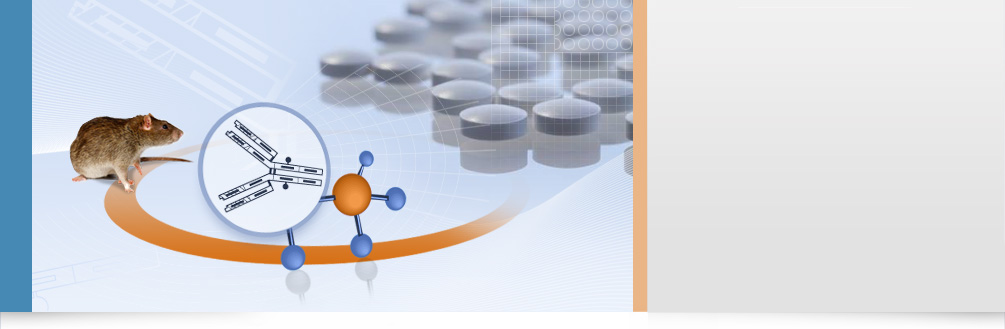
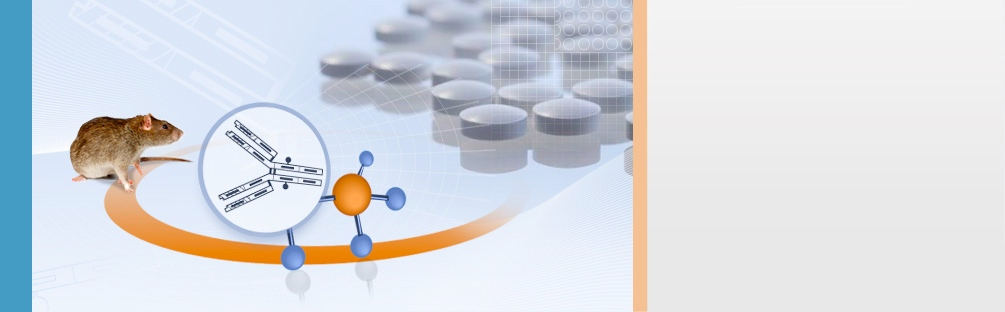
fixing background images css, links pages

diff --git a/app/assets/stylesheets/layout.css.sass b/app/assets/stylesheets/layout.css.sass
@@ -7,7 +7,10 @@ body
 
 #page
   width: 1000px
-  margin: 0px auto
+  margin: 0px auto 20px auto
+  -webkit-box-shadow: 0 10px 10px 2px rgba(0, 0, 0, 0.6), inset 0 -1px 0 rgba(0, 0, 0, 0.1)
+  -moz-box-shadow: 0 10px 10px 2px rgba(0, 0, 0, 0.6), inset 0 -1px 0 rgba(0, 0, 0, 0.1)
+  box-shadow: 0 10px 10px 2px rgba(0, 0, 0, 0.6), inset 0 -1px 0 rgba(0, 0, 0, 0.1)
 
 /* header
 
@@ -68,11 +71,11 @@ header#header .logo
       color: #333
       text-shadow: 1px 1px 1px white
   > ul > li > a:hover
-    color: black
-    text-shadow: 1px 1px 1px #ddd
-    background: rgba(70, 137, 181, 1)
+    color: white
+    text-shadow: 1px 1px 1px #333
     -moz-border-radius: 5px 5px 0 0
     border-radius: 5px 5px 0 0
+    background: rgba(70, 137, 181, 1)
   li.selected > a
     color: white
     text-shadow: 1px 1px 1px black
@@ -114,12 +117,15 @@ header#header .logo
   min-height: 22px
   background: #D66C0E
   border-bottom: 1px solid white
+  -webkit-box-shadow: 0 2px 3px rgba(0, 0, 0, 0.25), inset 0 -1px 0 rgba(0, 0, 0, 0.1)
+  -moz-box-shadow: 0 2px 3px rgba(0, 0, 0, 0.25), inset 0 -1px 0 rgba(0, 0, 0, 0.1)
+  box-shadow: 0 2px 3px rgba(0, 0, 0, 0.25), inset 0 -1px 0 rgba(0, 0, 0, 0.1)
 
 #body_content
   background: #F0F0F0
-  background-image: image-url("img-labo.jpg"), image-url("bas-degrade-int.jpg"), image-url("fd-img-labo.gif")
-  background-repeat: no-repeat,no-repeat,repeat-y
-  background-position: top left,bottom left,top left
+  background-image: image-url("img-labo.jpg"), image-url("fd-img-labo.gif")
+  background-repeat: no-repeat,repeat-y
+  background-position: top left,top left
   min-height: 284px
   padding-left: 264px
 

diff --git a/app/assets/stylesheets/home.css.sass b/app/assets/stylesheets/home.css.sass
@@ -1,18 +1,18 @@
 section.home
   background-image: image-url("fnd-home.jpg")
-  height: 329px
+  height: 311px
 
 #next_school
   width: 310px
-  margin-right: 20px
-  padding: 20px
+  margin: 0 auto
+  padding: 20px 40px
   text-shadow: 0px 1px 1px white
-  a
-    color: inherit
   .title, .theme, .school_when_where
     margin: 15px 0
   .title
     line-height: 20px
+    a
+      color: inherit
   .theme
     color: #D66C0E
     line-height: 20px
@@ -20,3 +20,8 @@ section.home
   .school_when_where
     color: #4689B5
     text-shadow: 1px 1px white
+  aside
+    width: 80%
+    .btn-large
+      margin-bottom: 10px
+      width: 100%

diff --git a/app/assets/stylesheets/schools.css.sass b/app/assets/stylesheets/schools.css.sass
@@ -3,7 +3,6 @@
   margin: 1em
   width: 680px
   font-size: 0.9em
-  border: 1px solid #dddddd
   background: #eeeeee
   -moz-border-radius-bottomright: 4px
   -webkit-border-bottom-right-radius: 4px
@@ -47,6 +46,9 @@ ul.nav-tabs
   &:before
     content: ": "
   font-style: italic
+
+#school_title
+  margin-top: 1em
 
 #school_theme h3
   color: #4689B5

diff --git a/app/assets/stylesheets/links.css.sass b/app/assets/stylesheets/links.css.sass
@@ -1,3 +1,6 @@
+#link_categories
+  width: 714px
+
 .link_category
   background: white
   padding: 3px 0 3px 10px
